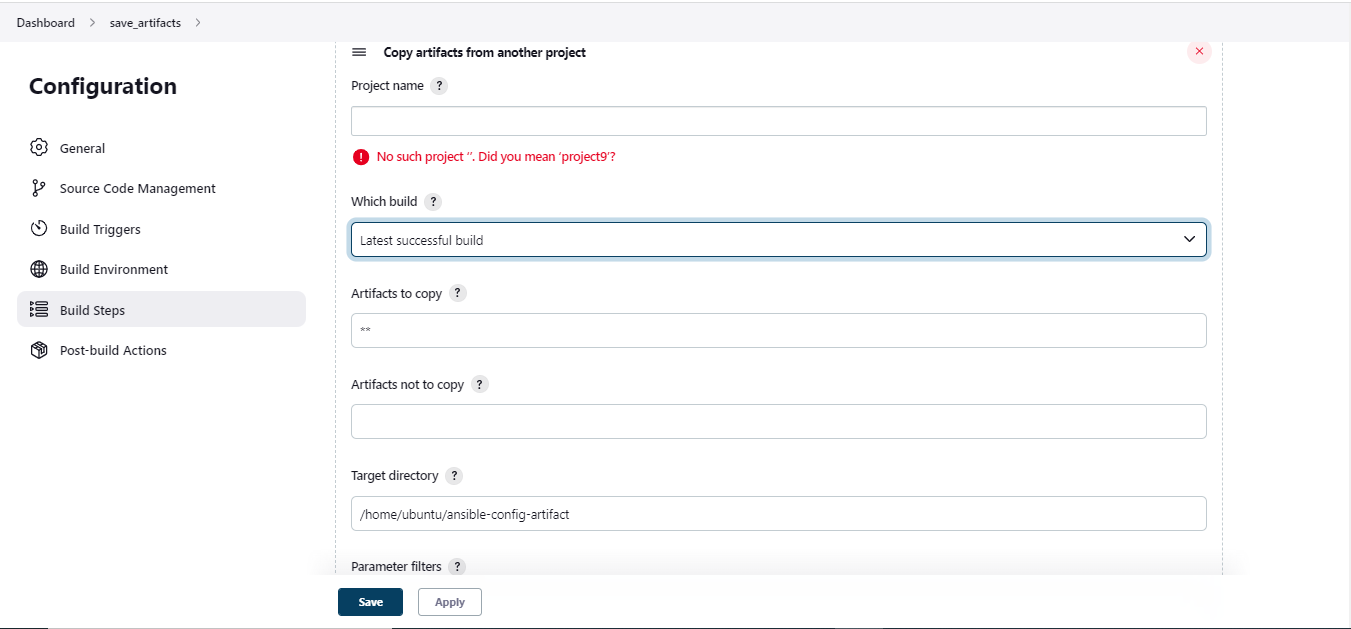
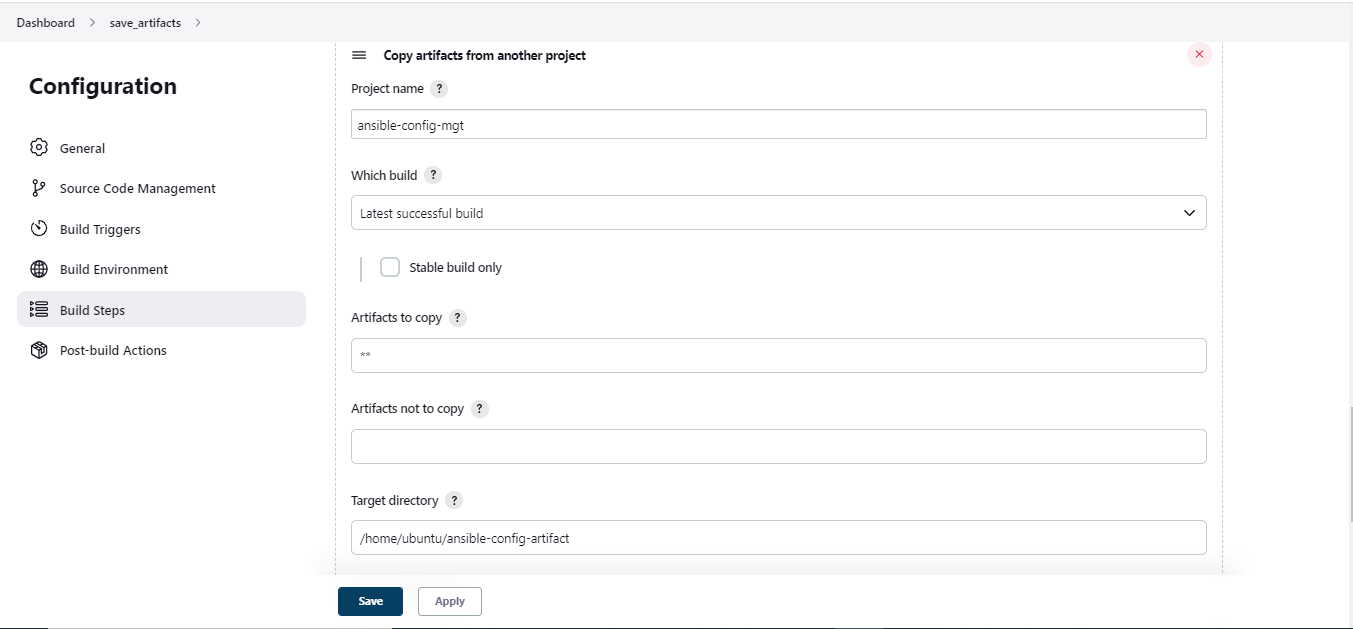
updating project12

diff --git a/project12.md b/project12.md
@@ -40,8 +40,19 @@ Before we begin, let us make some changes to our Jenkins job – now every new c
 
 ![](./images/save_artifact_config03.PNG)
 
-![](./images/save_artifact_config04.PNG)
 
 **Note**: You can configure number of builds to keep in order to save space on the server, for example, you might want to keep only last 2 or 5 build results. You can also make this change to your ansible job.
 
 6. The main idea of save_artifacts project is to `save artifacts` into `/home/ubuntu/ansible-config-artifact` directory. To achieve this, create a `Build` step and choose Copy artifacts from other project, specify `ansible` as a source project and `/home/ubuntu/ansible-config-artifact` as a target directory.
+
+![](./images/save_artifact_config04.PNG)
+
+7. Test your set up by making some change in README.MD file inside your `ansible-config-mgt` repository (right inside `master` branch).
+
+![](./images/testing%20artifact.PNG)
+
+![](./images/save_artifact%20push%20successful.PNG)
+
+If both Jenkins jobs have completed one after another – you shall see your files inside `/home/ubuntu/ansible-config-artifact` directory and it will be updated with every commit to your `master` branch.
+
+Now your Jenkins pipeline is more neat and clean
